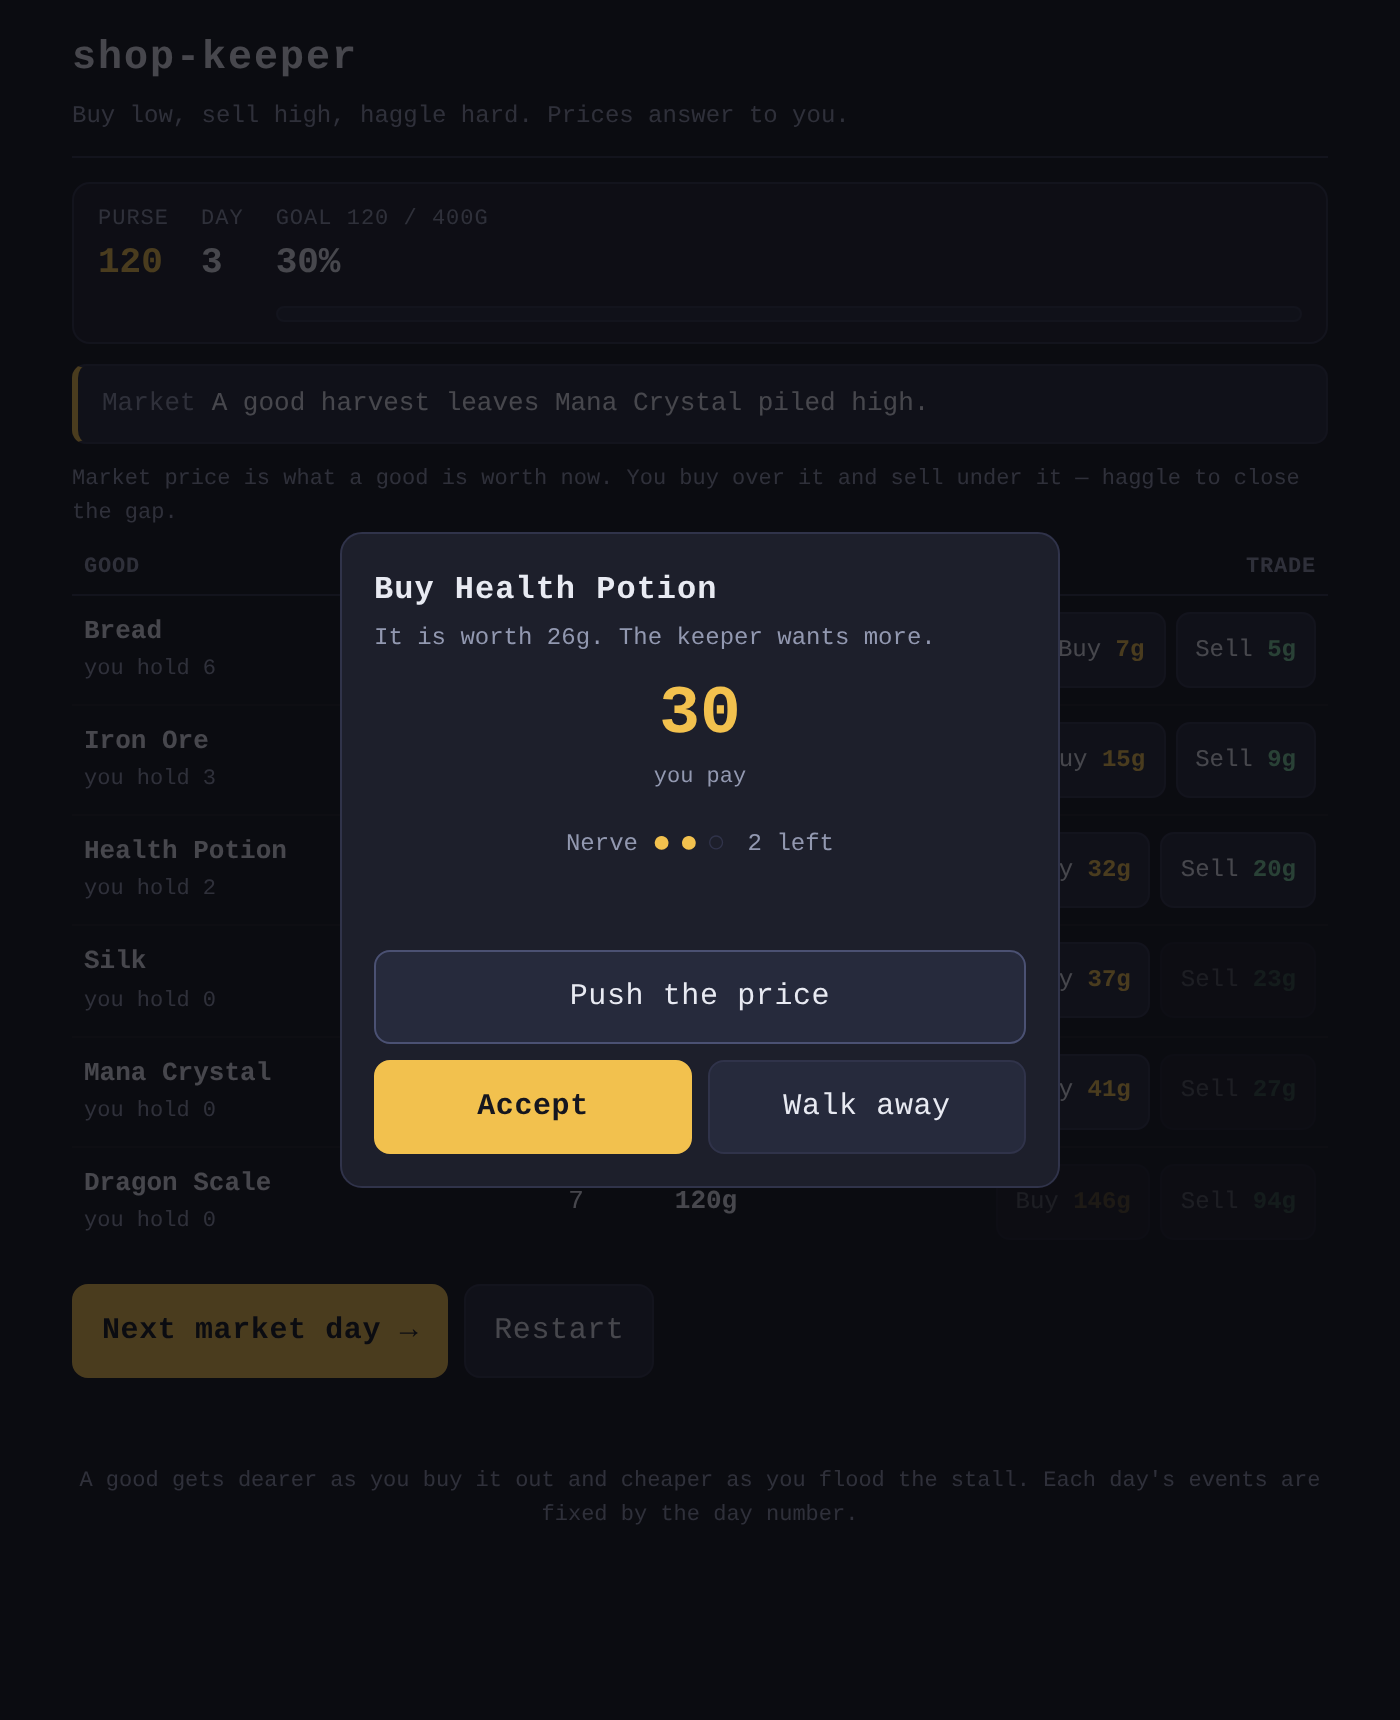
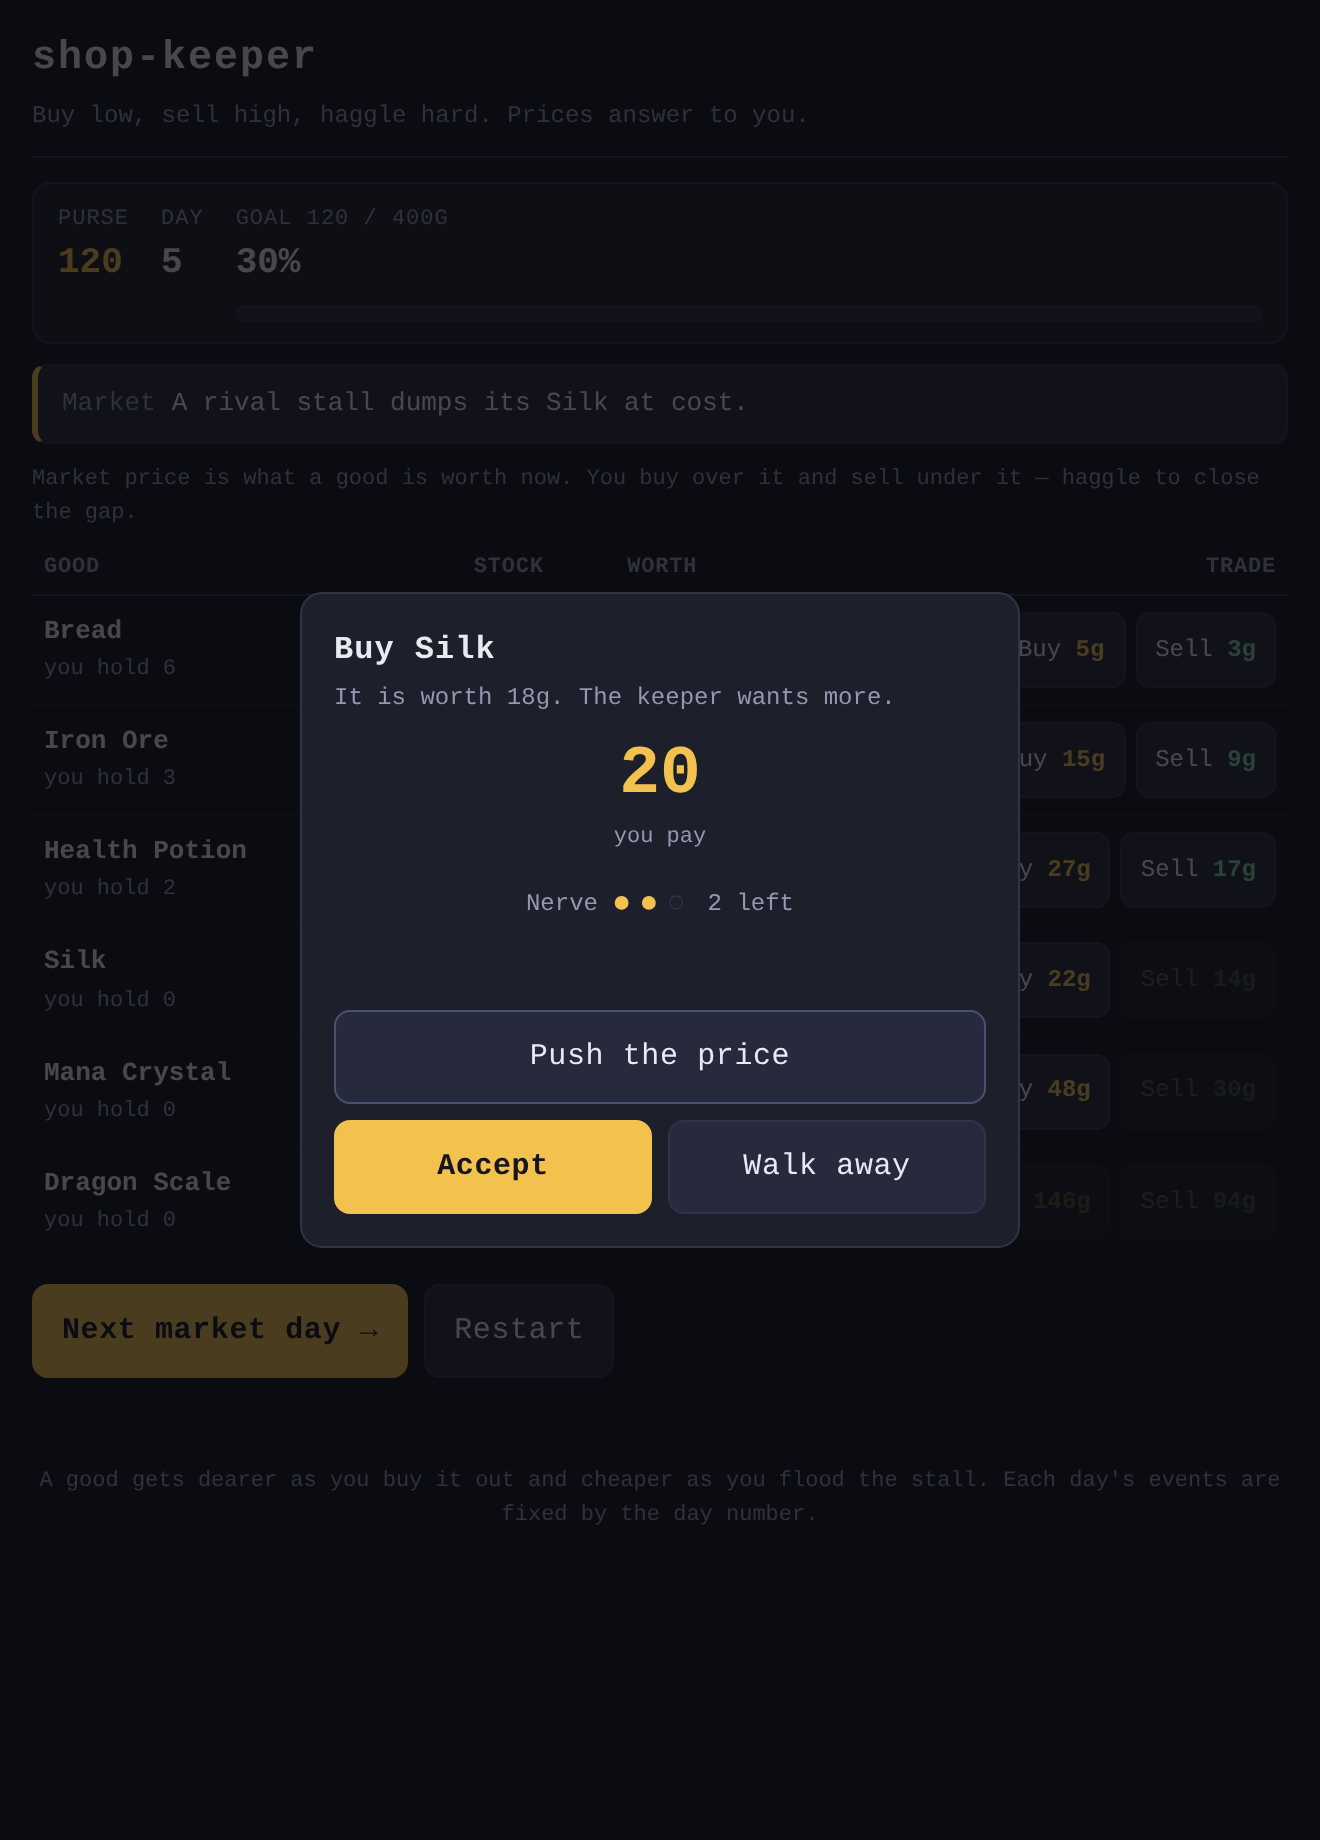
shop-keeper: evening polish — win flourish + temperature price colours (closes #143)
Day-063 evening polish on today's ship. Both findings the day-063 review
fenced to #143, closed under feature freeze (no new mechanic, no new scope):

- Muted win moment. Reaching 400g only swapped two text lines. The win now
  lands a single in-aesthetic gold flourish — the headline shimmers gold
  (winGlow), the purse value pops (winPop), the goal bar glows full — set by
  a `body.won` class and cleared on Restart, with a prefers-reduced-motion
  opt-out. The result line now summarises the run: "Cleared in N days — you
  turned 120g into Xg", and the aria-live announce matches.

- Price-direction colour. Rose=red / fell=green reads as loss/gain in a money
  game, which is backwards for a seller. Decoupled per #143's third option:
  price direction is now a temperature — dearer runs warm (--dearer #e0a86b),
  cheaper runs cool (--cheaper #6ba8e0) — carrying no profit/loss meaning, with
  the ▲/▼ arrows still marking direction. The --down green is left untouched so
  it stays the "money you receive" colour on Sell and the sell offer.

Screenshot recaptured (2x, mid-haggle) — the price colours changed, so the
old shot no longer reflects the build.

Verified headless (Chromium): 19/19 checks — zero console errors on load and
through a 40-day fuzz storm; the temperature tokens resolve and Sell stays
green; day-5 seeded event reproduces across reload; a play-to-win bot reaches
the goal (day 94, 499g) and the win UI (body.won + "Cleared in N days" summary
[…]

diff --git a/index.html b/index.html
@@ -10,6 +10,10 @@
     --bg:#15161f; --panel:#1d1f2b; --ink:#e8eaf2; --dim:#9298b0;
     --line:#30334a; --accent:#f2c14e; --accent-ink:#15161f;
     --up:#e06b74; --down:#7fd4a0; --slot:#262a3c; --scrim:rgba(8,9,13,.72);
+    /* price-direction cues are a temperature, not profit/loss: a good that got
+       dearer runs warm, one that got cheaper runs cool. Kept distinct from the
+       --down green, which stays the "money you receive" colour on Sell. */
+    --dearer:#e0a86b; --cheaper:#6ba8e0;
   }
   *{box-sizing:border-box}
   html,body{margin:0}
@@ -54,7 +58,7 @@
   .good .own{color:var(--dim); font-size:11px; display:block; margin-top:1px}
   .mkt{font-weight:700}
   .mkt .arrow{margin-left:3px; font-size:11px}
-  .mkt.rose{color:var(--up)} .mkt.fell{color:var(--down)}
+  .mkt.rose{color:var(--dearer)} .mkt.fell{color:var(--cheaper)}
   td.acts{white-space:nowrap}
   .trade{font:inherit; font-size:12px; color:var(--ink); background:var(--slot);
     border:1px solid var(--line); border-radius:7px; padding:7px 9px; cursor:pointer;
@@ -105,6 +109,25 @@
   @keyframes pop{0%{transform:scale(1)}40%{transform:scale(1.14)}100%{transform:scale(1)}}
   .gold.bump .val{animation:pop .3s ease-out}
   @media (prefers-reduced-motion:reduce){ .gold.bump .val{animation:none} }
+
+  /* the win moment: a single gold flourish — headline shimmers, the purse
+     pops, the goal bar glows full. One-shot, cleared on Restart. */
+  @keyframes winGlow{
+    0%{box-shadow:0 0 0 0 rgba(242,193,78,0)}
+    45%{box-shadow:0 0 0 2px var(--accent),0 0 22px rgba(242,193,78,.5)}
+    100%{box-shadow:0 0 0 1px rgba(242,193,78,.3)}
+  }
+  @keyframes winPop{0%{transform:scale(1)}30%{transform:scale(1.28)}100%{transform:scale(1)}}
+  body.won .headline{
+    border-color:var(--accent); border-left-color:var(--accent);
+    color:var(--accent); background:rgba(242,193,78,.08); animation:winGlow 1s ease-out
+  }
+  body.won .headline .tag{color:var(--accent)}
+  body.won .gold .val{animation:winPop .6s ease-out}
+  body.won .goal .barfill{box-shadow:0 0 12px rgba(242,193,78,.65)}
+  @media (prefers-reduced-motion:reduce){
+    body.won .headline, body.won .gold .val{animation:none}
+  }
 
   @media (max-width:420px){
     .wrap{padding:12px 11px 22px}
@@ -480,9 +503,11 @@
   function checkWin(){
     if (state.gold >= TARGET && state.phase === "trade"){
       state.phase = "won";
+      var days = state.day + (state.day === 1 ? " day" : " days");
+      document.body.classList.add("won");
       el.headlineText.textContent = "You hit " + TARGET + "g on day " + state.day + ". The road is yours.";
-      setResult("You reached the goal — press Restart to trade again.");
-      announce("You reached " + TARGET + " gold on day " + state.day + ". You win.");
+      setResult("Cleared in " + days + " — you turned " + START_GOLD + "g into " + state.gold + "g. Press Restart to trade again.");
+      announce("You win. Cleared in " + days + ", from " + START_GOLD + " to " + state.gold + " gold.");
     }
   }
 
@@ -521,6 +546,7 @@
   function restart(){
     // if Restart is reached any way while a haggle is open, tear the dialog down too
     document.body.classList.remove("haggling");
+    document.body.classList.remove("won");
     document.querySelector(".wrap").removeAttribute("inert");
     reset();
     buildRows();
